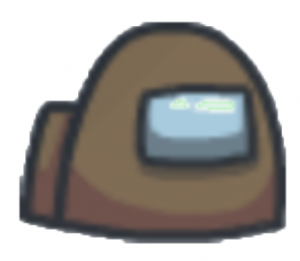
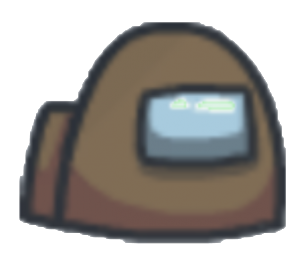
image overhaul

diff --git a/src/components/DashBoard.vue b/src/components/DashBoard.vue
@@ -6,12 +6,13 @@
       <p>Drag and drop characters to the separate columns. Click on a character to toggle their alive status.</p>
       <b-button id="github" variant="dark" target="_blank" href="https://github.com/JorisWijnen/suslist">GitHub Project</b-button>
     </div>
-    <b-row id="table">
+    <b-row id="body">
       <b-col title="Crewmate" style="background-color: #bfff7f;">
         <h3 class="column-title">Crewmate</h3>
         <draggable class="draggable" :list="CrewmateList" group="people" @change="log">
           <div class="draggable-item" v-for="(item, index) in CrewmateList" :key="item.color">
-            <Card :index="index" :image='item.image' :alive="item.alive" v-on:toggle="toggle1"/>
+            <Card v-if="item.alive" :index="index" :image='item.image' :alive="item.alive" v-on:toggle="toggle1"/>
+            <Card v-if="!item.alive" :index="index" :image='item.dead_image' :alive="item.alive" v-on:toggle="toggle1"/>
           </div>
         </draggable>
       </b-col>
@@ -20,7 +21,8 @@
         <h3 class="column-title">Not suspicious</h3>
         <draggable class="draggable" :list="NotSuspiciousList" group="people" @change="log">
           <div class="draggable-item" v-for="(item, index) in NotSuspiciousList" :key="item.color">
-            <Card :index="index" :image='item.image' :alive="item.alive" v-on:toggle="toggle2"/>
+            <Card v-if="item.alive" :index="index" :image='item.image' :alive="item.alive" v-on:toggle="toggle2"/>
+            <Card v-if="!item.alive" :index="index" :image='item.dead_image' :alive="item.alive" v-on:toggle="toggle2"/>
           </div>
         </draggable>
       </b-col>
@@ -29,7 +31,8 @@
         <h3 class="column-title">Neutral</h3>
         <draggable class="draggable" :list="NeutralList" group="people" @change="log">
           <div class="draggable-item" v-for="(item, index) in NeutralList" :key="item.color">
-            <Card :index="index" :image='item.image' :alive="item.alive" v-on:toggle="toggle3"/>
+            <Card v-if="item.alive" :index="index" :image='item.image' :alive="item.alive" v-on:toggle="toggle3"/>
+            <Card v-if="!item.alive" :index="index" :image='item.dead_image' :alive="item.alive" v-on:toggle="toggle3"/>
           </div>
         </draggable>
       </b-col>
@@ -38,7 +41,8 @@
         <h3 class="column-title">Suspicious</h3>
         <draggable class="draggable" :list="SuspiciousList" group="people" @change="log">
           <div class="draggable-item" v-for="(item, index) in SuspiciousList" :key="item.color">
-            <Card :index="index" :image='item.image' :alive="item.alive" v-on:toggle="toggle4"/>
+            <Card v-if="item.alive" :index="index" :image='item.image' :alive="item.alive" v-on:toggle="toggle4"/>
+            <Card v-if="!item.alive" :index="index" :image='item.dead_image' :alive="item.alive" v-on:toggle="toggle4"/>
           </div>
         </draggable>
       </b-col>
@@ -47,7 +51,8 @@
         <h3 class="column-title">Imposter</h3>
         <draggable class="draggable" :list="ImposterList" group="people" @change="log">
           <div class="draggable-item" v-for="(item, index) in ImposterList" :key="item.color">
-            <Card :index="index" :image='item.image' :alive="item.alive" v-on:toggle="toggle5"/>
+            <Card v-if="item.alive" :index="index" :image='item.image' :alive="item.alive" v-on:toggle="toggle5"/>
+            <Card v-if="!item.alive" :index="index" :image='item.dead_image' :alive="item.alive" v-on:toggle="toggle5"/>
           </div>
         </draggable>
       </b-col>
@@ -71,18 +76,18 @@ export default {
         CrewmateList: [],
         NotSuspiciousList: [],
         NeutralList: [
-          { color: "Black", image: "blackcrewpng.png", alive:true },
-          { color: "Blue", image: "bluecrewpng.png", alive:true },
-          { color: "Brown", image: "browncrewpng.png", alive:true },
-          { color: "Cyan", image: "cyancrewpng.png", alive:true },
-          { color: "Green", image: "greencrewpng.png", alive:true },
-          { color: "Lime", image: "limecrewpng.png", alive:true },
-          { color: "Orange", image: "orangecrewpng.png", alive:true },
-          { color: "Pink", image: "pinkcrewpng.png", alive:true },
-          { color: "Purple", image: "purplecrewpng.png", alive:true },
-          { color: "Red", image: "redcrewpng.png", alive:true },
-          { color: "White", image: "whitecrewpng.png", alive:true },
-          { color: "Yellow", image: "yellowcrewpng.png", alive:true }
+          { color: "Black", image: "blackcrewpng.png", dead_image: "blackcrewpng-dead.png", alive:true },
+          { color: "Blue", image: "bluecrewpng.png", dead_image: "bluecrewpng-dead.png", alive:true },
+          { color: "Brown", image: "browncrewpng.png", dead_image: "browncrewpng-dead.png", alive:true },
+          { color: "Cyan", image: "cyancrewpng.png", dead_image: "cyancrewpng-dead.png", alive:true },
+          { color: "Green", image: "greencrewpng.png", dead_image: "greencrewpng-dead.png", alive:true },
+          { color: "Lime", image: "limecrewpng.png", dead_image: "limecrewpng-dead.png", alive:true },
+          { color: "Orange", image: "orangecrewpng.png", dead_image: "orangecrewpng-dead.png", alive:true },
+          { color: "Pink", image: "pinkcrewpng.png", dead_image: "pinkcrewpng-dead.png", alive:true },
+          { color: "Purple", image: "purplecrewpng.png", dead_image: "purplecrewpng-dead.png", alive:true },
+          { color: "Red", image: "redcrewpng.png", dead_image: "redcrewpng-dead.png", alive:true },
+          { color: "White", image: "whitecrewpng.png", dead_image: "whitecrewpng-dead.png", alive:true },
+          { color: "Yellow", image: "yellowcrewpng.png", dead_image: "yellowcrewpng-dead.png", alive:true }
         ],
         SuspiciousList: [],
         ImposterList: []
@@ -112,18 +117,18 @@ export default {
       reset() {
         this.CrewmateList = []; this.NotSuspiciousList = []; this.SuspiciousList = []; this.ImposterList = [];
         this.NeutralList = [
-          { color: "Black", image: "blackcrewpng.png", alive:true },
-          { color: "Blue", image: "bluecrewpng.png", alive:true },
-          { color: "Brown", image: "browncrewpng.png", alive:true },
-          { color: "Cyan", image: "cyancrewpng.png", alive:true },
-          { color: "Green", image: "greencrewpng.png", alive:true },
-          { color: "Lime", image: "limecrewpng.png", alive:true },
-          { color: "Orange", image: "orangecrewpng.png", alive:true },
-          { color: "Pink", image: "pinkcrewpng.png", alive:true },
-          { color: "Purple", image: "purplecrewpng.png", alive:true },
-          { color: "Red", image: "redcrewpng.png", alive:true },
-          { color: "White", image: "whitecrewpng.png", alive:true },
-          { color: "Yellow", image: "yellowcrewpng.png", alive:true }
+          { color: "Black", image: "blackcrewpng.png", dead_image: "blackcrewpng-dead.png", alive:true },
+          { color: "Blue", image: "bluecrewpng.png", dead_image: "bluecrewpng-dead.png", alive:true },
+          { color: "Brown", image: "browncrewpng.png", dead_image: "browncrewpng-dead.png", alive:true },
+          { color: "Cyan", image: "cyancrewpng.png", dead_image: "cyancrewpng-dead.png", alive:true },
+          { color: "Green", image: "greencrewpng.png", dead_image: "greencrewpng-dead.png", alive:true },
+          { color: "Lime", image: "limecrewpng.png", dead_image: "limecrewpng-dead.png", alive:true },
+          { color: "Orange", image: "orangecrewpng.png", dead_image: "orangecrewpng-dead.png", alive:true },
+          { color: "Pink", image: "pinkcrewpng.png", dead_image: "pinkcrewpng-dead.png", alive:true },
+          { color: "Purple", image: "purplecrewpng.png", dead_image: "purplecrewpng-dead.png", alive:true },
+          { color: "Red", image: "redcrewpng.png", dead_image: "redcrewpng-dead.png", alive:true },
+          { color: "White", image: "whitecrewpng.png", dead_image: "whitecrewpng-dead.png", alive:true },
+          { color: "Yellow", image: "yellowcrewpng.png", dead_image: "yellowcrewpng-dead.png", alive:true }
         ];
       }
     }
@@ -158,17 +163,17 @@ export default {
   float: right;
 }
 
-.dashboard #table {
+.dashboard #body {
   height: 90%;
 }
-.dashboard #table .column-title {
+.dashboard #body .column-title {
   height: 5%;
 }
-.dashboard #table .draggable {
+.dashboard #body .draggable {
   height: 90%;
 }
 
-.dashboard #table .draggable-item {
+.dashboard #body .draggable-item {
   width: 50%;
   display: inline-block;
   float: left;

diff --git a/src/components/Card.vue b/src/components/Card.vue
@@ -15,7 +15,7 @@
     data () {
       return {
         opacityStyle: {
-          opacity: "20%"
+          opacity: "80%"
         }
       }
     },
@@ -30,10 +30,11 @@
 <style lang="css">
 .card {
   display: inline-block;
-  border: 1px solid grey;
+  border: none;
   height: 100%;
   width: 100%;
   border-radius: 10px;
+  background-color: transparent;
 }
 
 .character-icon {
